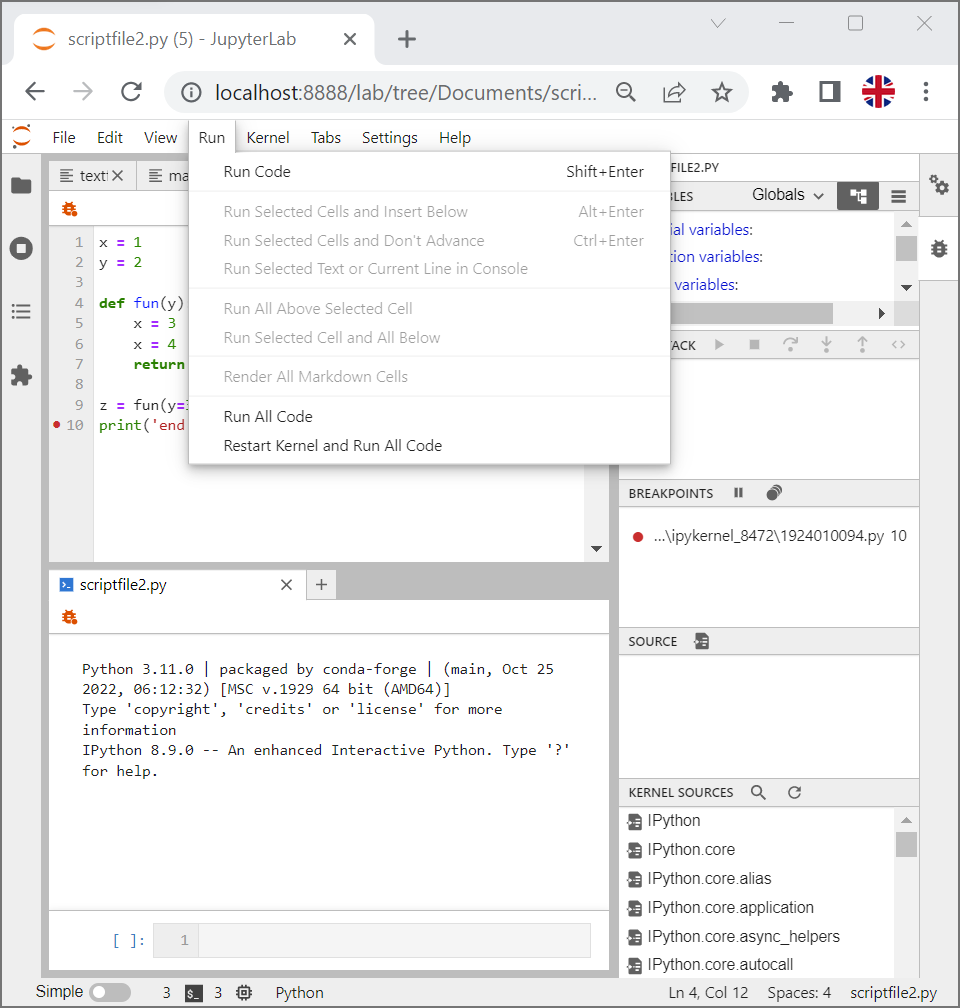
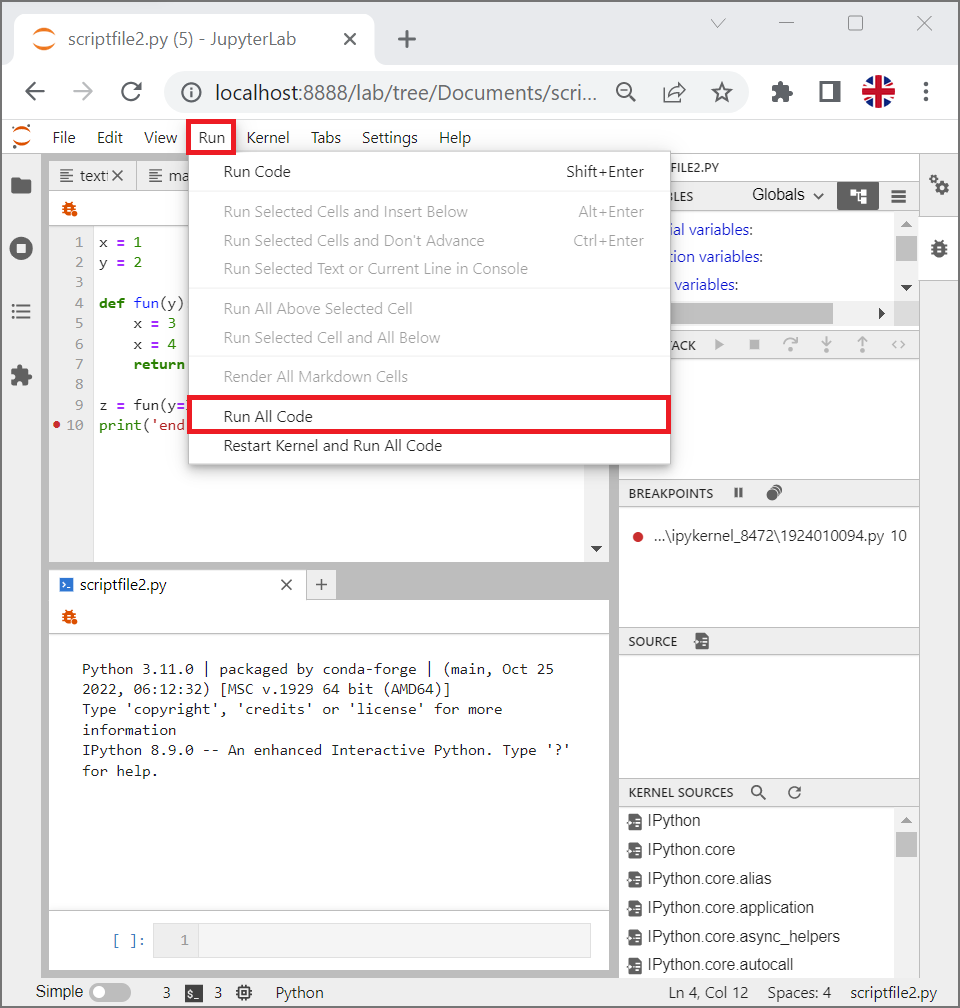
JupyterLab Tutorial Updated
JupyerLab Tutorial Updated

Changed region(s): [[0.1875, 0.369, 0.7188, 0.4306], [0.1875, 0.0923, 0.25, 0.1538]]

diff --git a/001_install/001_windows_install/readme.md b/001_install/001_windows_install/readme.md
@@ -1763,24 +1763,89 @@ The file contents is in the Javascript Object Notation (JSON) format which is si
 
 ### Debugging
 
+JupyterLab has a debugger which seems to work bettewr with a Python Script File or all the code in a single Cell within a Python Interactive notebook:
+
 ![img_399](./images/img_399.png)
+
+Select the debug button on the IPython Console:
+
 ![img_400](./images/img_400.png)
+
+The debugger displays to the right. The breakpoints should be set on the script editor:
+
 ![img_401](./images/img_401.png)
+
+In my case, selecting Kernel → Restart Kernel and Debug:
+
 ![img_402](./images/img_402.png)
+
+Then Restart:
+
 ![img_403](./images/img_403.png)
+
+Did not enable any of the buttons on the Callstack:
+
 ![img_404](./images/img_404.png)
 
-The notebook consists of cells. The cells can be:
+Instead selecting Run → Run All Code:
 
-* markdown - for markdown syntax: The Markdown display will be shown when the code is run.
-* python - for Python code: Python code will be executed when the cell is run.
-* raw - The notebook itself is written in nodejs, another programming language used for web development. 
+![img_405](./images/img_405.png)
 
+Enabled the buttons on the Callstack:
 
+![img_406](./images/img_406.png)
 
+To the top is the option to view Local or Global Variables:
 
+![img_407](./images/img_407.png)
 
-To get to Keyboard Shortcuts. Select the Settings menu to the top and then select Advanced Settings Editor. To the left select Command Palette and then select keyboard shortcuts.
+The next button will be selected to run each line of code one by one:
+
+![img_408](./images/img_408.png)
+
+The variable ```x``` displays as a local variable. The local scope outwith any code block in the main script file is the global scope:
+
+![img_409](./images/img_409.png)
+
+The variable ```y``` is now displayed as a local variable:
+
+![img_410](./images/img_410.png)
+
+The function ```fun``` is displayed as a function variable:
+
+![img_411](./images/img_411.png)
+
+At the function call, there is an option to select next, which will perform the function call or step into, which will step into the function while its being called:
+
+![img_412](./images/img_412.png)
+
+WHen stepped into the functions own local scope is displayed. The local ```y``` is supplied as an input argument:
+
+![img_413](./images/img_413.png)
+
+The global scope has ```x``` and ```y``` which were assigned in the script file, outwith any code blocks:
+
+![img_414](./images/img_414.png)
+
+Selecting next, creates the local variable ```x```:
+
+![img_415](./images/img_415.png)
+
+Selecting next again updates the value of this local variable:
+
+![img_416](./images/img_416.png)
+
+Selecting next will use the return statement with the local variables ```x``` and ```y```:
+
+![img_417](./images/img_417.png)
+
+The result is returned to ```z``` which is shown in the global scope. The local scope is now the global scope as the line indicator is now in the main script file outwith the code block. The global variables ```x``` and ```y``` now display:
+
+![img_418](./images/img_418.png)
+
+Selecting next once again ends the debugging:
+
+![img_419](./images/img_419.png)
 
 ## Visual Studio Code
 
